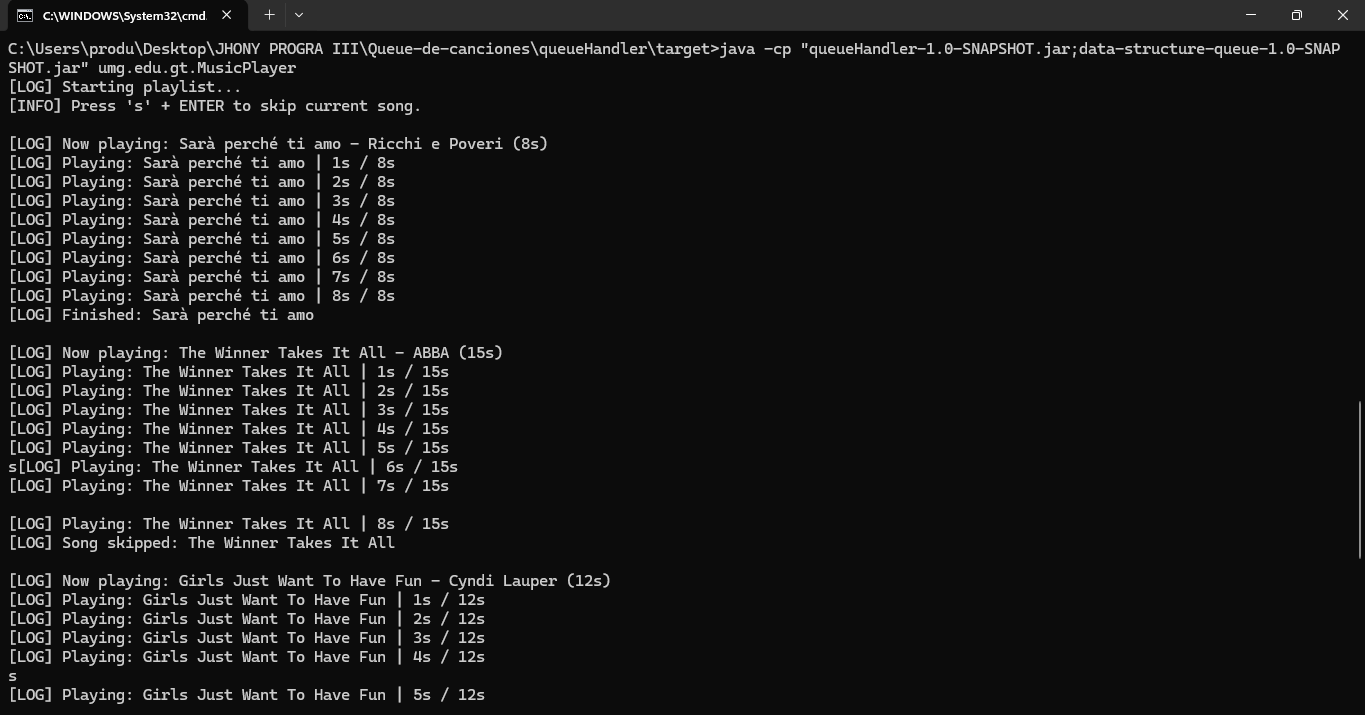
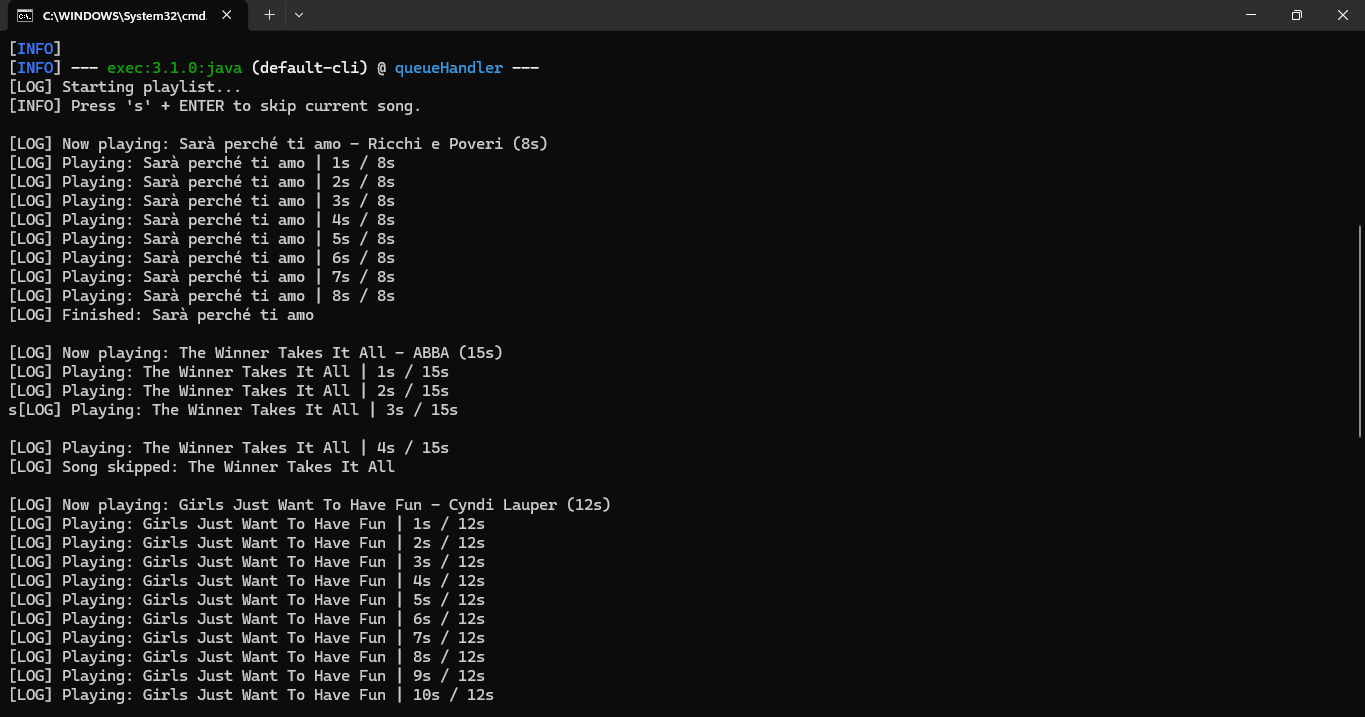
Actualización de tarea

diff --git a/README.md b/README.md
@@ -28,7 +28,7 @@ Luego puede ser utilizado como dependencia en otros proyectos.
 
 ---
 
-# ⚙ 3. Cómo compilar el handler "MusicPlayer"
+# 3. Cómo compilar el handler "MusicPlayer"
 
 Ubicarse en la carpeta raíz del proyecto principal y ejecutar: mvn clean package
 
@@ -40,21 +40,19 @@ target/queueHandler-1.0-SNAPSHOT
 
 ---
 
-# ▶ 4. Cómo ejecutar desde consola
+# 4. Cómo ejecutar desde consola
 
-Desde la carpeta `target` ejecutar:
+Desde la carpeta raíz del proyecto queueHandler ejecutar: 
 
-java -cp "queueHandler-1.0-SNAPSHOT.jar;data-structure-queue-1.0-SNAPSHOT.jar" umg.edu.gt.MusicPlayer
+mvn clean compile exec:java
 
-El sistema iniciará la simulación del reproductor.
-
-Para saltar una canción durante reproducción:
+Para saltar una canción durante la reproducción: 
 
 Escribir: "s" y presionar ENTER.
 
 ---
 
-# 🏗 Explicación del diseño
+# 5. Explicación del diseño
 
 El sistema fue diseñado siguiendo los siguientes principios:
 
@@ -76,7 +74,7 @@ Además se creó:
 
 ---
 
-# Decisiones técnicas
+# 6. Decisiones técnicas
 
 1. Se utilizó una estructura `LinkedQueue` para cumplir el principio FIFO.
 2. No se utilizó ordenamiento para respetar el modelo de colas.
@@ -86,7 +84,7 @@ Además se creó:
 
 ---
 
-# Cómo se implementó la prioridad
+# 7. Cómo se implementó la prioridad
 
 Se manejaron dos colas independientes:
 
@@ -107,7 +105,7 @@ Esto garantiza prioridad sin necesidad de ordenamiento.
 
 ---
 
-# Cómo se manejó la simulación de duración
+# 8. Cómo se manejó la simulación de duración
 
 La duración se simula usando:
 
